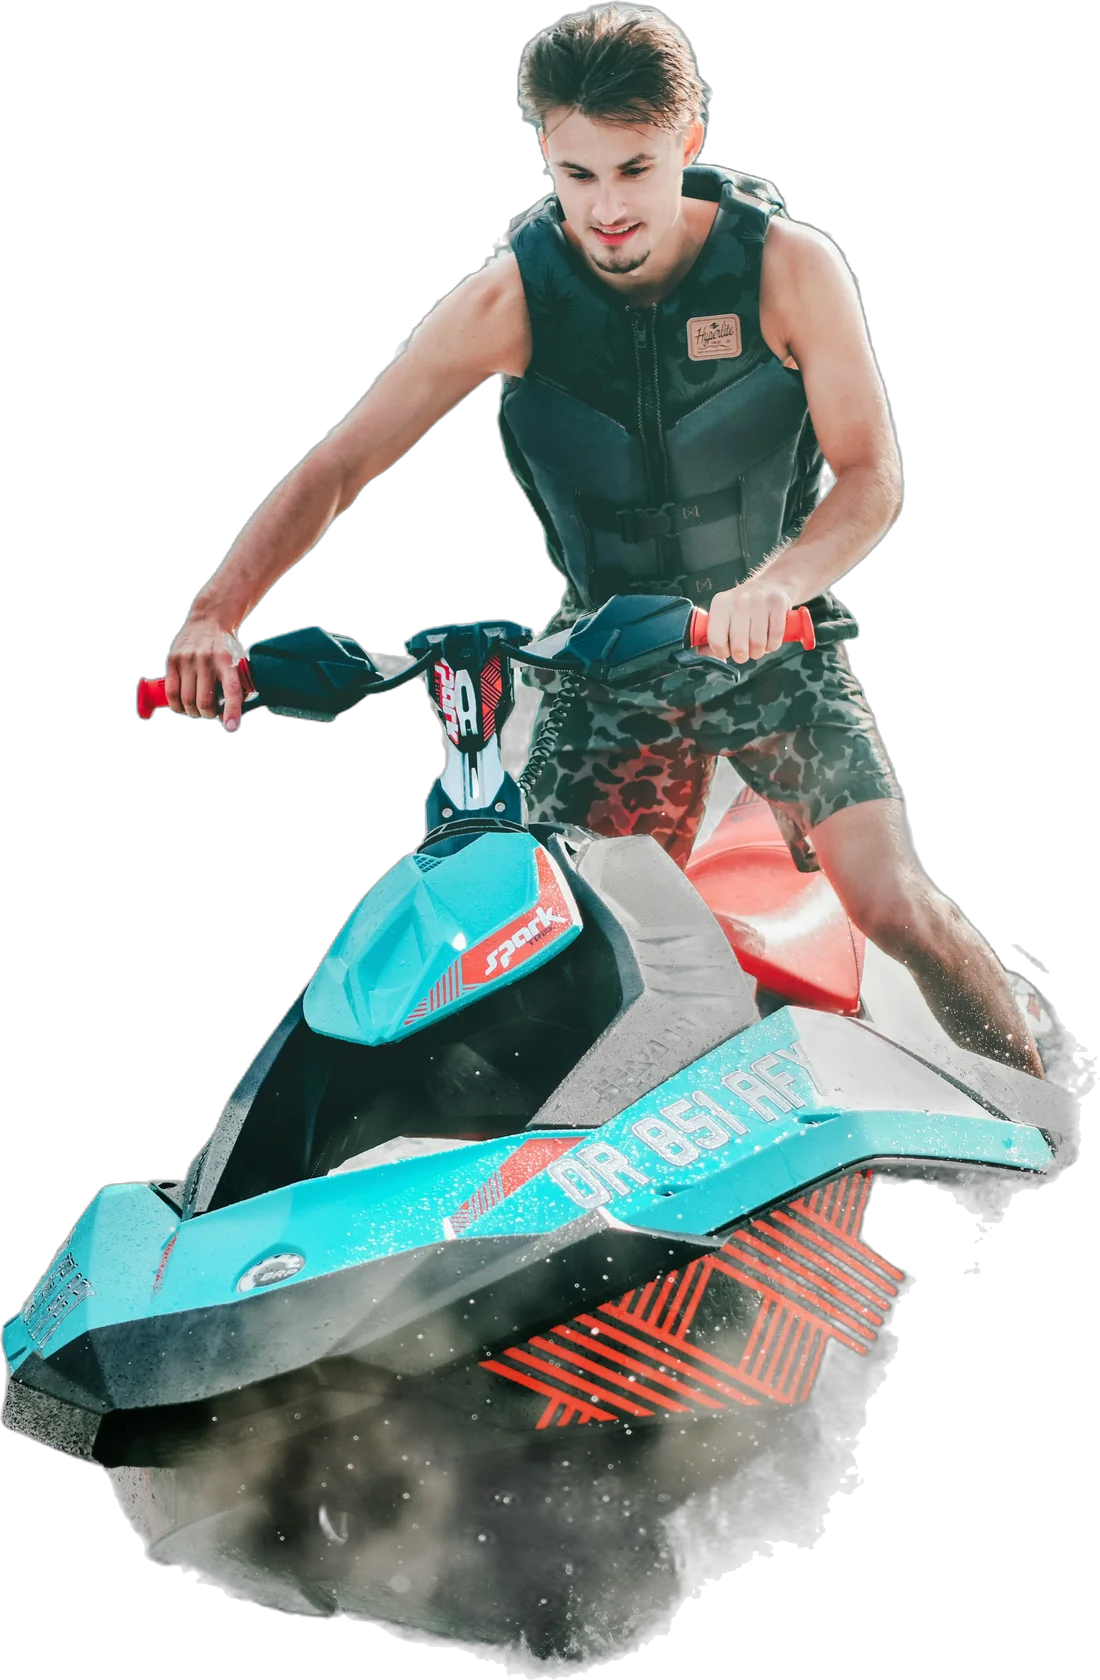
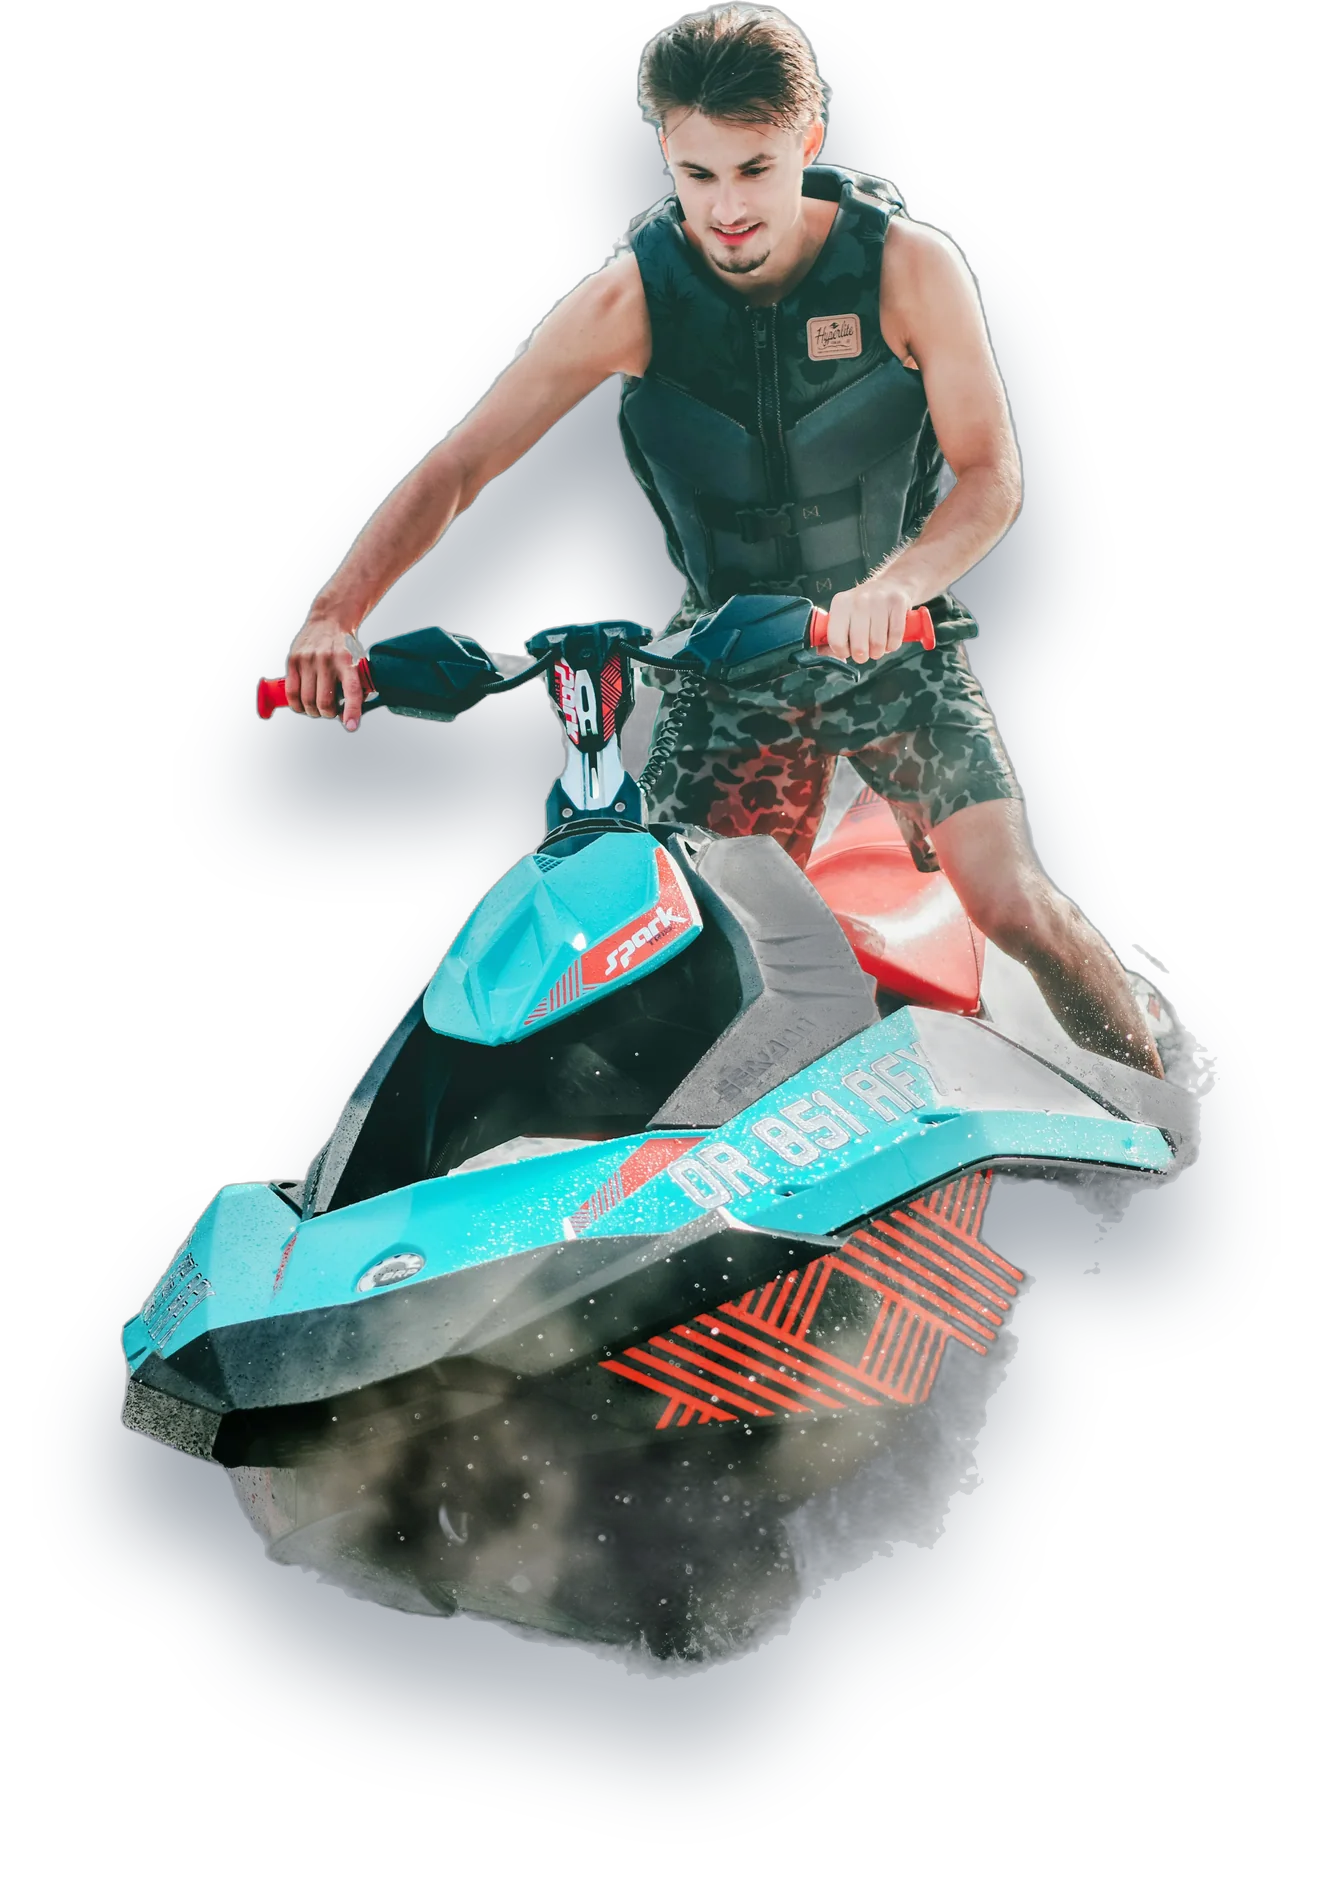
Pinho Jets: corrige jet branco no navegador do Instagram (Safari)
O jet do topo aparecia como um retângulo branco no iPhone. A animação de
entrada mexia em filter (blur, brightness e drop-shadow), e o WebKit não
desenhava a imagem. Agora a animação usa só transform e opacity, a
sombra do jet do topo vem embutida no WebP e os outros jets recortados
não usam mais filter. og:url e og:image apontam para o site no Netlify.

Claude-Session: https://claude.ai/code/session_016PvmTtPFfTFGYEHYXTeT9o

diff --git a/web/pinho-jets/style.css b/web/pinho-jets/style.css
@@ -137,7 +137,7 @@ button, input, textarea { font: inherit; color: inherit; }
 }
 .palco {
   /* posição do jet e do ponto de impacto, relativas à tela */
-  --jet-x: 69%; --jet-top: 30%; --jet-h: 90%;
+  --jet-x: 69%; --jet-top: 30%; --jet-h: 101%;
   --impacto-x: 69%;
   position: relative; width: 100%;
 }
@@ -228,7 +228,8 @@ button, input, textarea { font: inherit; color: inherit; }
 .jet-rolagem {
   position: absolute; z-index: 5;
   left: var(--jet-x); top: var(--jet-top); height: var(--jet-h);
-  aspect-ratio: 1100 / 1680;
+  /* a imagem já traz a sombra embutida embaixo (sem filtro CSS: o Safari se perde com filtro em imagem animada) */
+  aspect-ratio: 1340 / 1890;
   translate: -50% 0;
   pointer-events: none;
 }
@@ -237,8 +238,7 @@ button, input, textarea { font: inherit; color: inherit; }
 @keyframes boia { 50% { transform: translateY(-1.6%) rotate(-.9deg); } }
 .jet-hero {
   width: 100%; height: 100%; object-fit: contain;
-  transform-origin: 50% 66%;
-  filter: drop-shadow(0 28px 26px rgba(6, 26, 46, .38));
+  transform-origin: 50% 59%;
 }
 .js .jet-hero { opacity: 0; animation: mostrar 0s 4s forwards; }
 @keyframes mostrar { to { opacity: 1; } }
@@ -270,7 +270,7 @@ button, input, textarea { font: inherit; color: inherit; }
 }
 @media (min-width: 640px) and (max-width: 959px) {
   .tela { aspect-ratio: 16 / 10; }
-  .palco { --jet-x: 66%; --jet-top: 20%; --jet-h: 112%; --impacto-x: 66%; }
+  .palco { --jet-x: 66%; --jet-top: 20%; --jet-h: 126%; --impacto-x: 66%; }
 }
 @media (min-width: 960px) {
   /* título e texto à esquerda; a tela à direita, com o jet saindo por baixo */
@@ -285,7 +285,7 @@ button, input, textarea { font: inherit; color: inherit; }
   .palco {
     grid-area: palco; align-self: start;
     margin-top: clamp(10px, 1.6vw, 26px);
-    --jet-x: 55%; --jet-top: 11%; --jet-h: 132%;
+    --jet-x: 55%; --jet-top: 11%; --jet-h: 148.5%;
     --impacto-x: 55%;
   }
   .tela { aspect-ratio: 16 / 9; max-height: none; border-width: 7px; border-radius: 22px; }
@@ -318,7 +318,6 @@ button, input, textarea { font: inherit; color: inherit; }
   position: absolute; left: 0; top: 50%; z-index: 2;
   width: clamp(280px, 46vw, 760px); height: auto;
   translate: -50% -52%;
-  filter: drop-shadow(0 26px 20px rgba(3, 50, 66, .45));
   will-change: transform;
 }
 .esteira {
@@ -390,7 +389,6 @@ button, input, textarea { font: inherit; color: inherit; }
   max-width: none;
   translate: -74% 0;
   transition: left .5s var(--curva);
-  filter: drop-shadow(0 8px 8px rgba(0,0,0,.35));
   pointer-events: none;
 }
 .parada {
@@ -660,7 +658,6 @@ button, input, textarea { font: inherit; color: inherit; }
 .jet-final {
   position: absolute; z-index: 2; right: -6%; top: 6%;
   width: clamp(280px, 52vw, 820px); height: auto;
-  filter: drop-shadow(0 30px 30px rgba(0,0,0,.45));
   pointer-events: none; will-change: transform;
 }
 .final-acoes { position: relative; z-index: 3; display: grid; gap: 16px; justify-items: start; max-width: 30rem; }

diff --git a/web/pinho-jets/app.js b/web/pinho-jets/app.js
@@ -283,7 +283,7 @@
         w, h, ix,
         borda: parseFloat(getComputedStyle(tela).borderTopWidth) || 0,
         raio: parseFloat(getComputedStyle(tela).borderTopLeftRadius) || 0,
-        jetW: rolagem.offsetWidth,
+        jetW: rolagem.offsetWidth * (1100 / 1340), // a imagem tem margem para a sombra
         fundo: Math.min(h * 0.2, 130),
       };
     }
@@ -501,9 +501,9 @@
         taxa: 70,
         gerar() {
           if (scrollY > 120) return null;
-          const w = rolagem.offsetWidth;
+          const w = rolagem.offsetWidth * (1100 / 1340);
           const x = rolagem.offsetLeft + (Math.random() - 0.5) * w * 0.62;
-          const y = rolagem.offsetTop + rolagem.offsetHeight * (0.86 + Math.random() * 0.06);
+          const y = rolagem.offsetTop + rolagem.offsetHeight * (0.76 + Math.random() * 0.05);
           const lado = x < rolagem.offsetLeft ? -1 : 1;
           return { x, y, vx: lado * (60 + Math.random() * 200), vy: -120 - Math.random() * 280, vida: 0.5 + Math.random() * 0.6, tam: 0.8 + Math.random() * 2.2 };
         },
@@ -513,8 +513,6 @@
     function tremor() {
       return [0, -8, 7, -6, 5, -3, 2, 0].map((v, i) => ({ transform: `translate(${v}px, ${i % 2 ? -v * 0.5 : v * 0.35}px)` }));
     }
-
-    const sombraJet = 'drop-shadow(0 28px 26px rgba(6, 26, 46, .38))';
 
     async function estourar() {
       if (quebrou) return;
@@ -539,10 +537,10 @@
 
       jet.animate(
         [
-          { transform: 'translateY(-30%) scale(.28)', filter: `blur(5px) brightness(.7) ${sombraJet}`, opacity: 0 },
+          { transform: 'translateY(-30%) scale(.28)', opacity: 0 },
           { opacity: 1, offset: 0.08 },
-          { transform: 'translateY(3%) scale(1.07)', filter: `blur(1px) brightness(1.06) ${sombraJet}`, offset: 0.62 },
-          { transform: 'translateY(0) scale(1)', filter: `blur(0px) brightness(1) ${sombraJet}`, opacity: 1 },
+          { transform: 'translateY(3%) scale(1.07)', offset: 0.62 },
+          { transform: 'translateY(0) scale(1)', opacity: 1 },
         ],
         { duration: 780, easing: 'cubic-bezier(.16, .84, .26, 1)', fill: 'forwards' }
       );

diff --git a/web/pinho-jets/index.html b/web/pinho-jets/index.html
@@ -12,9 +12,9 @@
 <meta property="og:locale" content="pt_BR">
 <meta property="og:title" content="Pinho Jets | Vem pilotar">
 <meta property="og:description" content="Jet ski a partir de R$ 200 no Paiva, em Barra de Jangada e em Suape. Lancha, sofá maluco, drone e oficina. Reserve pelo WhatsApp.">
-<!-- Endereço do GitHub Pages. Se for para um domínio próprio, troque as duas URLs abaixo. -->
-<meta property="og:url" content="https://camelocharmoso.github.io/Camelocharmoso-/pinho-jets/">
-<meta property="og:image" content="https://camelocharmoso.github.io/Camelocharmoso-/pinho-jets/assets/og.jpg">
+<!-- Endereço publicado no Netlify. Se mudar o nome do site ou usar domínio próprio, troque as duas URLs abaixo. -->
+<meta property="og:url" content="https://lucent-crepe-04b429.netlify.app/">
+<meta property="og:image" content="https://lucent-crepe-04b429.netlify.app/assets/og.jpg">
 <meta property="og:image:width" content="1200">
 <meta property="og:image:height" content="630">
 <link rel="icon" type="image/png" href="assets/logo-pinho.png">
@@ -98,7 +98,7 @@
       <div class="cacos" data-cacos aria-hidden="true"></div>
       <div class="jet-rolagem" data-jet-rolagem>
         <div class="jet-boia">
-          <img class="jet-hero" data-jet src="assets/jet-frente.webp" width="1100" height="1680" alt="Piloto acelerando um jet ski para fora da tela, em direção a você" fetchpriority="high">
+          <img class="jet-hero" data-jet src="assets/jet-frente.webp" width="1340" height="1890" alt="Piloto acelerando um jet ski para fora da tela, em direção a você" fetchpriority="high">
         </div>
       </div>
       <canvas class="spray" data-spray aria-hidden="true"></canvas>

diff --git a/web/pinho-jets/README.md b/web/pinho-jets/README.md
@@ -31,7 +31,8 @@ Toda mensagem termina com "(Vim pelo site)", para a equipe saber quantos cliente
 ## Antes de publicar no domínio deles
 
 - Remover `<meta name="robots" content="noindex">` do `index.html`.
-- `og:url` e `og:image` apontam para o GitHub Pages (`https://camelocharmoso.github.io/Camelocharmoso-/pinho-jets/`). Se a página for para um domínio próprio, troque as duas, senão a prévia do link some no WhatsApp.
+- `og:url` e `og:image` apontam para `https://lucent-crepe-04b429.netlify.app/`. Se trocar o nome do site no Netlify ou usar domínio próprio, troque as duas, senão a prévia do link some no WhatsApp.
+- As imagens dos jets não usam `filter` no CSS: a sombra do jet do topo já vem dentro do arquivo. Filtro animado em imagem fez o jet virar um retângulo branco no navegador do Instagram (Safari).
 - Confirmar com o cliente: o ponto de encontro em cada local (a página diz que ele vai pelo WhatsApp), se a oficina atende as quatro marcas citadas (Sea-Doo, Yamaha, Kawasaki e Can-Am, que estão no logo) e se o preço é por jet ou por pessoa.
 
 ## Créditos das imagens
